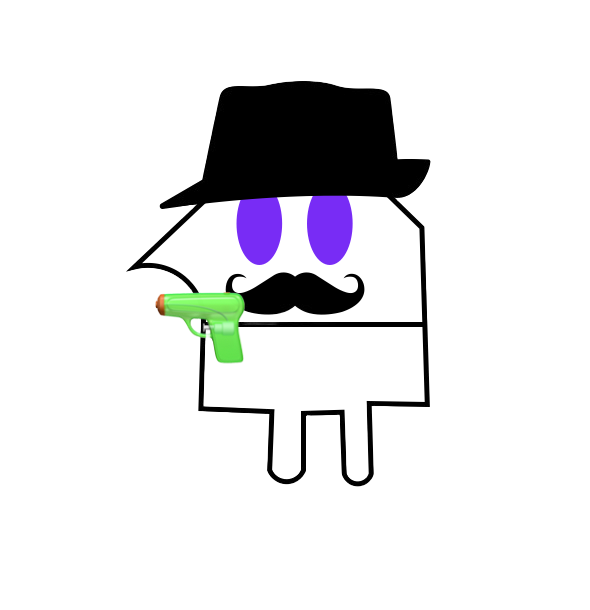
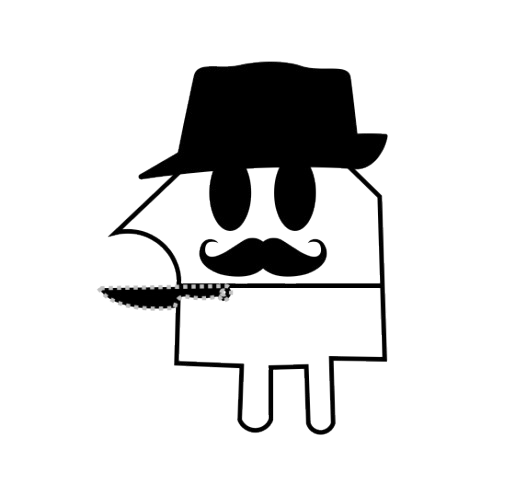
fixed : sprite support; added : sprites

Changed region(s): [[0.1864, 0.124, 0.7767, 0.8988]]

diff --git a/lib/systems/render.cpp b/lib/systems/render.cpp
@@ -18,34 +18,30 @@ public:
         Camera cameraComponent{0, 0, 0, 0, 0, 0};
         if (camera != INVALID_ENTITY) {
             cameraComponent = gCoordinator.getComponent<Camera>(camera);
+
         }
 
-        // Loop through all entities to render them
+        SDL_Rect viewport;
+        SDL_RenderGetViewport(app->renderer, &viewport);
+
         for (const Entity entity: entities) {
             const auto &transform = gCoordinator.getComponent<Transform>(entity);
-
-            // Calculate screen position
             float screenX = transform.x;
             float screenY = transform.y - cameraComponent.y;
 
-            // If entity has a sprite, render it
             if (gCoordinator.hasComponent<Sprite>(entity)) {
-                const auto& sprite = gCoordinator.getComponent<Sprite>(entity);
+                const auto &sprite = gCoordinator.getComponent<Sprite>(entity);
 
-                // Load texture using the path
-                SDL_Texture* texture = TextureManager::getInstance()->loadTexture(sprite.texturePath);
+
+                SDL_Texture *texture = TextureManager::getInstance()->loadTexture(sprite.texturePath);
                 if (!texture) {
-                    std::cout << "Failed to load texture for entity " << entity << ": " << sprite.texturePath << std::endl;
                     continue;
                 }
 
-                // Get texture dimensions if we haven't already
-                if (sprite.srcRect.w == 0 || sprite.srcRect.h == 0) {
-                    int w, h;
-                    SDL_QueryTexture(texture, nullptr, nullptr, &w, &h);
-                    const_cast<Sprite&>(sprite).srcRect.w = w;
-                    const_cast<Sprite&>(sprite).srcRect.h = h;
-                }
+                // Get and print texture dimensions
+                int texWidth, texHeight;
+                SDL_QueryTexture(texture, nullptr, nullptr, &texWidth, &texHeight);
+
 
                 SDL_FRect dstRect = {
                     screenX,
@@ -54,22 +50,34 @@ public:
                     transform.h * sprite.scale
                 };
 
-                SDL_RendererFlip flip = SDL_FLIP_NONE;
-                if (sprite.flipX) flip = (SDL_RendererFlip)(flip | SDL_FLIP_HORIZONTAL);
-                if (sprite.flipY) flip = (SDL_RendererFlip)(flip | SDL_FLIP_VERTICAL);
+                // Draw a red rectangle to see the sprite bounds
+                SDL_SetRenderDrawColor(app->renderer, 255, 0, 0, 255);
+                SDL_RenderDrawRectF(app->renderer, &dstRect);
 
-                SDL_RenderCopyExF(
+                SDL_BlendMode blendMode;
+                SDL_GetTextureBlendMode(texture, &blendMode);
+
+
+                // Ensure alpha blending is enabled
+                SDL_SetTextureBlendMode(texture, SDL_BLENDMODE_BLEND);
+
+                int result = SDL_RenderCopyExF(
                     app->renderer,
                     texture,
                     &sprite.srcRect,
                     &dstRect,
                     transform.orientation,
                     &sprite.origin,
-                    flip
+                    sprite.flipX ? SDL_FLIP_HORIZONTAL : SDL_FLIP_NONE
                 );
-            }
-            // If entity has a color, render colored rectangle
-            else if (gCoordinator.hasComponent<Color>(entity)) {
+
+                if (result < 0) {
+                    std::cerr << "Error rendering texture: " << SDL_GetError() << std::endl;
+                } else {
+
+                }
+            } else if (gCoordinator.hasComponent<Color>(entity)) {
+
                 const auto &color = gCoordinator.getComponent<Color>(entity);
                 SDL_SetRenderDrawColor(app->renderer, color.color.r, color.color.g, color.color.b, color.color.a);
 

diff --git a/main.cpp b/main.cpp
@@ -265,17 +265,31 @@ int main(int argc, char *argv[]) {
 
     std::string path = "assets/images/moodle.png";
 
-    // moodle sprite
+    SDL_Texture *tempTexture = TextureManager::getInstance()->loadTexture("assets/images/moodle.png");
+    int texWidth, texHeight;
+    SDL_QueryTexture(tempTexture, nullptr, nullptr, &texWidth, &texHeight);
+    std::cout << "Loaded texture dimensions: " << texWidth << "x" << texHeight << std::endl;
+
+    // Create the sprite with proper dimensions
     Sprite sprite;
-    sprite.texturePath = path;  // Add this string member to Sprite struct
-    sprite.srcRect = {0, 0, 32, 32};   // We'll update this once we load the texture
-    sprite.scale = 1.0f;
+    sprite.texturePath = "assets/images/knife.png";
+    sprite.srcRect = {0, 0, texWidth, texHeight}; // Use full texture dimensions
+    sprite.scale = 0.5f; // Scale down the sprite since it's 590x610
     sprite.origin = {0, 0};
     sprite.flipX = false;
     sprite.flipY = false;
 
     auto mainChar = gCoordinator.createEntity();
-    gCoordinator.addComponent(mainChar, Transform{0.f, SCREEN_HEIGHT - 200.f, (float) 32, (float) 32, 0});
+    float scaledWidth = texWidth * sprite.scale;
+    float scaledHeight = texHeight * sprite.scale;
+
+    gCoordinator.addComponent(mainChar, Transform{
+                                  0.f, // x
+                                  SCREEN_HEIGHT - scaledHeight, // y
+                                  scaledHeight, // h - match texture height
+                                  scaledWidth, // w - match texture width
+                                  0 // orientation
+                              });
     gCoordinator.addComponent(mainChar, sprite);
     gCoordinator.addComponent(mainChar, CKinematic{});
     gCoordinator.addComponent(mainChar, KeyboardMovement{150.f});
@@ -297,6 +311,10 @@ int main(int argc, char *argv[]) {
     entityCreatedEvent.data = MainCharCreatedData{mainChar, strategy->get_message(mainChar, Message::CREATE)};
     eventCoordinator.emitServer(client_socket, std::make_shared<Event>(entityCreatedEvent));
     gCoordinator.getComponent<ClientEntity>(mainChar).synced = true;
+
+    // After creating mainChar and adding all components
+    std::cout << "Is mainChar in render system: " <<
+            (renderSystem->entities.find(mainChar) != renderSystem->entities.end()) << std::endl;
 
 
     auto clientEntity = gCoordinator.createEntity();

diff --git a/lib/core/draw.cpp b/lib/core/draw.cpp
@@ -3,7 +3,7 @@
 void prepareScene(void)
 {
     //Sets the background to blue
-    SDL_SetRenderDrawColor(app->renderer, 96, 128, 255, 255);
+    SDL_SetRenderDrawColor(app->renderer, 255, 255, 255, 255);
     //Clears the renderer
     SDL_RenderClear(app->renderer);
 }

diff --git a/lib/core/defs.hpp b/lib/core/defs.hpp
@@ -3,5 +3,5 @@
 #define ENGINE_NAME "Moodle Jump"
 #define ENGINE_VERSION ""
 
-#define SCREEN_WIDTH 430
-#define SCREEN_HEIGHT 932
+#define SCREEN_WIDTH 500
+#define SCREEN_HEIGHT 1000
